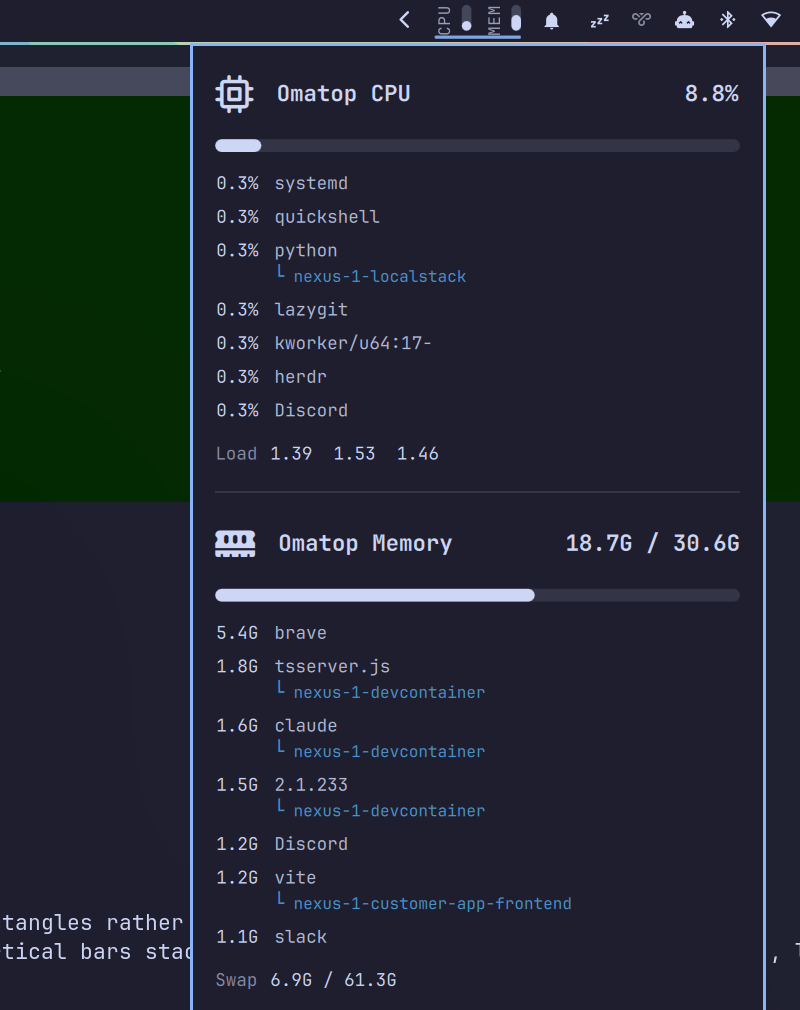
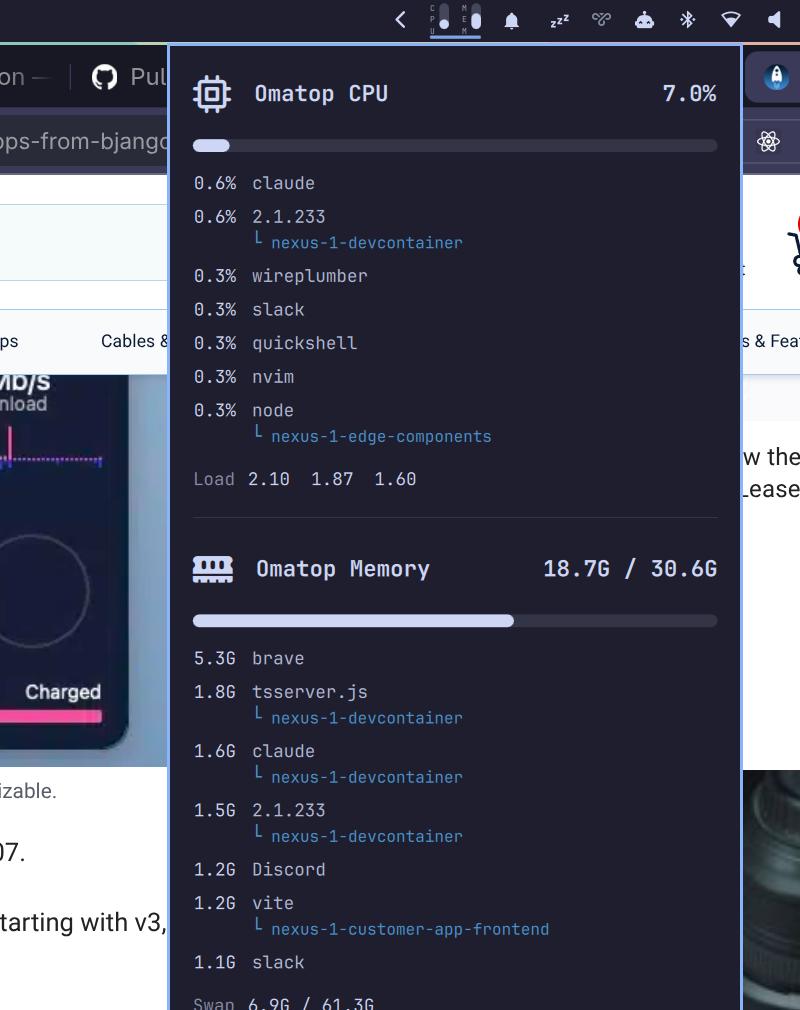
Stack the bar meter labels one letter per line
C/P/U and M/E/M in a tiny three-line block whose total height matches the
meter beside it, instead of a rotated word.

diff --git a/Panel.qml b/Panel.qml
@@ -123,7 +123,7 @@ Panel {
     }
   }
 
-  // One metric in the bar: its name on its side, then its meter.
+  // One metric in the bar: its name stacked letter per letter, then its meter.
   component MeterGroup: Row {
     property string label: ""
     property real fraction: 0
@@ -135,27 +135,33 @@ Panel {
     LevelMeter { fraction: parent.fraction }
   }
 
-  // A meter's name, rotated to read bottom-to-top so three characters fit in
-  // the bar's height. Hidden on vertical bars, where there is no room for it.
+  // A meter's name stacked one letter per line, sized so all three lines
+  // together stand as tall as the meter beside them. Hidden on vertical bars,
+  // where there is no room for it.
   component MeterLabel: Item {
     id: meterLabel
 
     property string text: ""
+    // Three lines inside the meter's height: the glyph size is that height
+    // divided by the letter count, with the line box pulled tight around it.
+    readonly property int lineCount: Math.max(1, meterLabel.text.length)
+    readonly property real glyphSize: Math.max(4, Math.floor(Style.space(16) / lineCount))
 
     visible: !button.vertical && root.showLabel
-    implicitWidth: visible ? Math.ceil(labelText.implicitHeight) : 0
-    implicitHeight: visible ? Math.ceil(labelText.implicitWidth) : 0
+    implicitWidth: visible ? Math.ceil(labelText.implicitWidth) : 0
+    implicitHeight: visible ? Math.ceil(labelText.implicitHeight) : 0
 
     Text {
       id: labelText
       anchors.centerIn: parent
-      text: meterLabel.text
-      rotation: -90
+      text: meterLabel.text.split("").join("\n")
+      horizontalAlignment: Text.AlignHCenter
       color: root.bar ? root.bar.barForeground : Color.foreground
       opacity: 0.7
       font.family: root.bar ? root.bar.fontFamily : Style.font.family
-      font.pixelSize: Style.font.caption
-      font.letterSpacing: 0.5
+      font.pixelSize: meterLabel.glyphSize
+      lineHeightMode: Text.ProportionalHeight
+      lineHeight: 1.0
       renderType: Text.NativeRendering
     }
   }

diff --git a/README.md b/README.md
@@ -50,9 +50,9 @@ Settings live in the widget's `shell.json` layout entry:
 Each metric gets a small level meter that fills with its usage — bottom-up on a
 horizontal bar, left-to-right on a vertical one — and turns the theme's urgent
 color at 90% and above. On horizontal bars the metric's name sits to the left of
-its meter, rotated to read bottom-to-top so it fits the bar's height
-(`showLabel`); vertical bars show the two bare meters. The numbers live in the
-popup.
+its meter, stacked one tiny letter per line (`C`/`P`/`U`, `M`/`E`/`M`) so all
+three lines together are only as tall as the meter (`showLabel`); vertical bars
+show the two bare meters. The numbers live in the popup.
 
 ## Interactions
 
